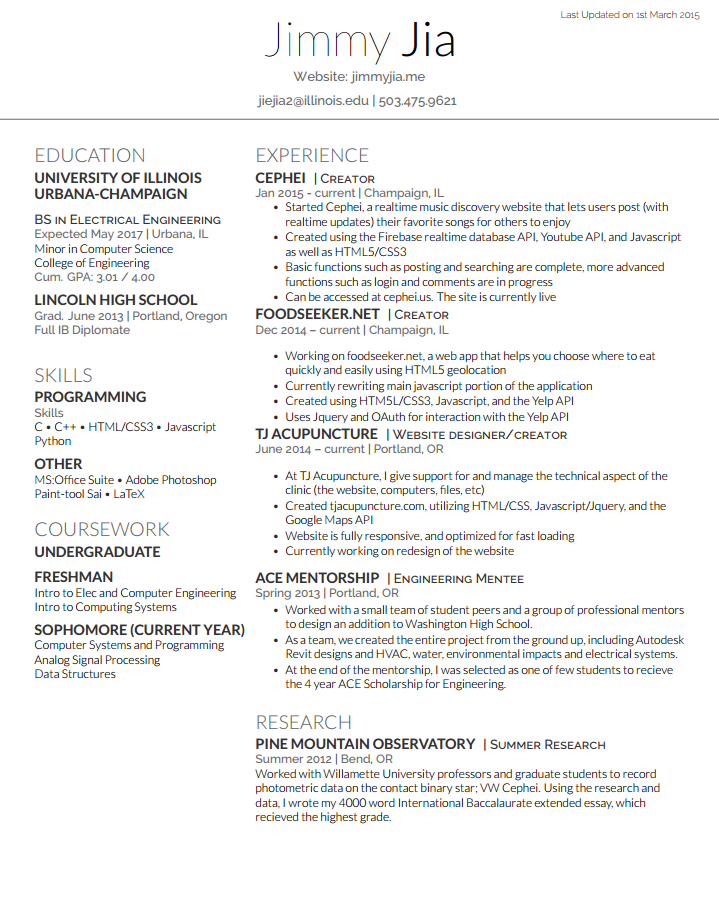
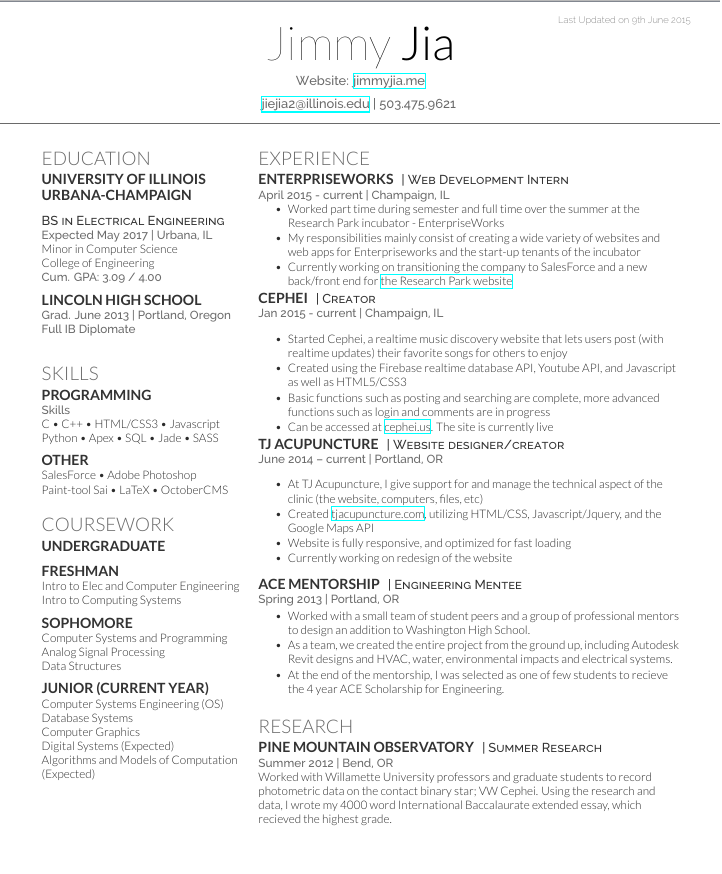
resume update

Changed region(s): [[0.0, 0.0, 1.0, 0.9577], [0.765, 0.0, 0.9791, 0.0309]]

diff --git a/resume.html b/resume.html
@@ -42,9 +42,9 @@
 					</div>
 				</div>
 				<div class="centertext">
-					<a class="download" href="https://dl-web.dropbox.com/get/jimmyjia.pdf?_subject_uid=22395166&w=AADAs-cF84XOBsJKfmv4VJu1YoYkdCv9nuW6iUh_wR7uEg&get_preview=1" download><img src="resources/icons/download.svg" alt="download resume"></img></a>
+					<a class="download" href="https://www.dropbox.com/s/ixccktwoglu2c8p/jimmyjia.pdf?dl=1" download><img src="resources/icons/download.svg" alt="download resume"></img></a>
 					<p class="download">Download PDF</p>
-					<a href="https://dl-web.dropbox.com/get/jimmyjia.pdf?_subject_uid=22395166&w=AADAs-cF84XOBsJKfmv4VJu1YoYkdCv9nuW6iUh_wR7uEg&get_preview=1" target="_blank"><img class="resume" src="resources/pics/resume.png" alt="resume"></img></a>
+					<a href="https://www.dropbox.com/s/ixccktwoglu2c8p/jimmyjia.pdf?dl=1" target="_blank"><img class="resume" src="resources/pics/resume.png" alt="resume"></img></a>
 				</div>
 			</div>
 					
